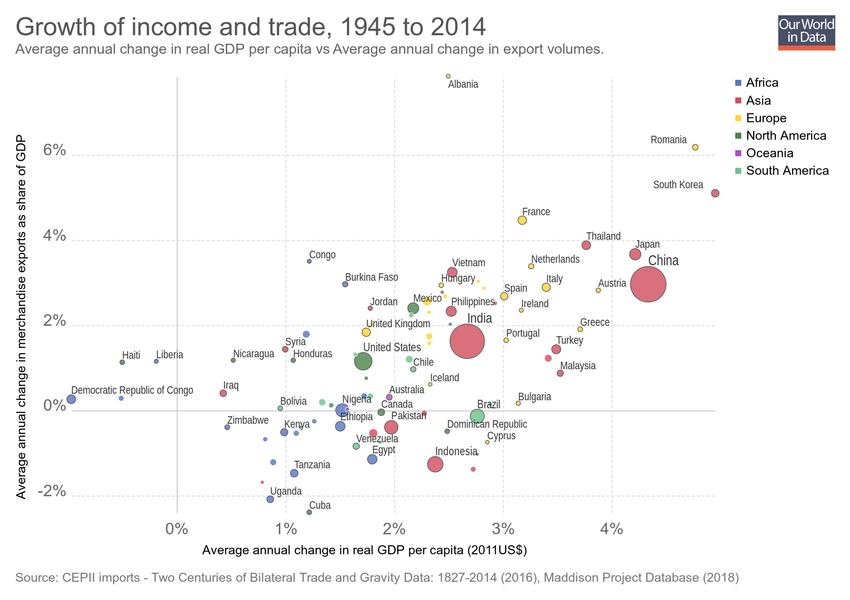
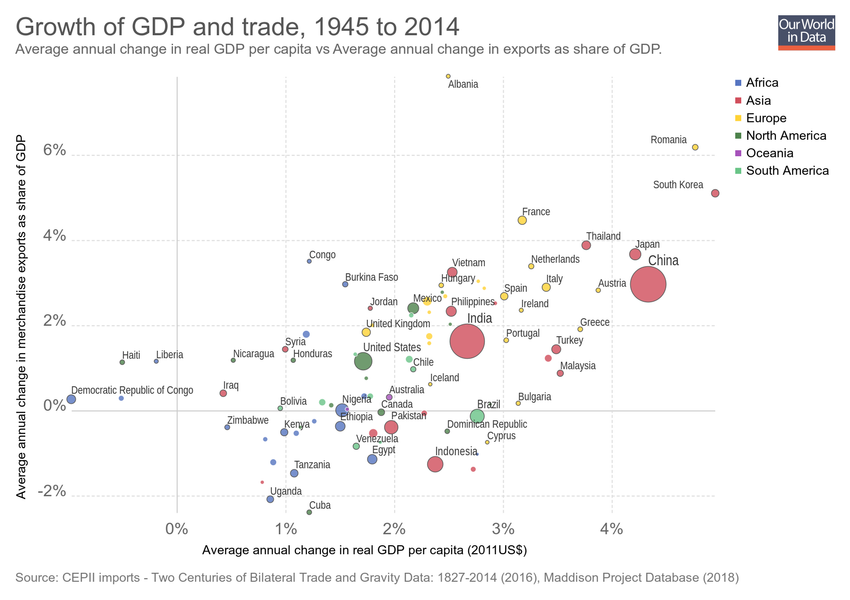
Updating chart growth-of-income-and-trade

Changed region(s): [[0.1529, 0.03, 0.5812, 0.06], [0.6424, 0.06, 0.7953, 0.09]]

diff --git a/grapher/growth-of-income-and-trade.html b/grapher/growth-of-income-and-trade.html
@@ -1,4 +1,4 @@
-<!doctype html><html><head><meta name="viewport" content="width=device-width, initial-scale=1" /><title>Growth of income and trade - Our World in Data</title><meta name="description" content="Average annual change in real GDP per capita vs Average annual change in export volumes." /><link rel="canonical" href="https://ourworldindata.org/grapher/growth-of-income-and-trade" /><meta property="fb:app_id" content="1149943818390250" /><meta property="og:url" content="https://ourworldindata.org/grapher/growth-of-income-and-trade" /><meta property="og:title" content="Growth of income and trade" /><meta property="og:description" content="Average annual change in real GDP per capita vs Average annual change in export volumes." /><meta property="og:image" content="https://ourworldindata.org/grapher/exports/growth-of-income-and-trade.png?v=8" /><meta property="og:image:width" content="850" /><meta property="og:image:height" content="600" /><meta property="og:site_name" content="Our World in Data" /><meta name="twitter:card" content="summary_large_image" /><meta name="twitter:site" content="@OurWorldInData" /><meta name="twitter:creator" content="@OurWorldInData" /><meta name="twitter:title" content="Growth of income and trade" /><meta name="twitter:description" content="Average annual change in real GDP per capita vs Average annual change in export volumes." /><meta name="twitter:image" content="https://ourworldindata.org/grapher/exports/growth-of-income-and-trade.png?v=8" /><style>
+<!doctype html><html><head><meta name="viewport" content="width=device-width, initial-scale=1" /><title>Growth of GDP and trade - Our World in Data</title><meta name="description" content="Average annual change in real GDP per capita vs Average annual change in exports as share of GDP." /><link rel="canonical" href="https://ourworldindata.org/grapher/growth-of-income-and-trade" /><meta property="fb:app_id" content="1149943818390250" /><meta property="og:url" content="https://ourworldindata.org/grapher/growth-of-income-and-trade" /><meta property="og:title" content="Growth of GDP and trade" /><meta property="og:description" content="Average annual change in real GDP per capita vs Average annual change in exports as share of GDP." /><meta property="og:image" content="https://ourworldindata.org/grapher/exports/growth-of-income-and-trade.png?v=9" /><meta property="og:image:width" content="850" /><meta property="og:image:height" content="600" /><meta property="og:site_name" content="Our World in Data" /><meta name="twitter:card" content="summary_large_image" /><meta name="twitter:site" content="@OurWorldInData" /><meta name="twitter:creator" content="@OurWorldInData" /><meta name="twitter:title" content="Growth of GDP and trade" /><meta name="twitter:description" content="Average annual change in real GDP per capita vs Average annual change in exports as share of GDP." /><meta name="twitter:image" content="https://ourworldindata.org/grapher/exports/growth-of-income-and-trade.png?v=9" /><style>
         html, body {
             height: 100%;
             margin: 0;
@@ -20,8 +20,8 @@
         }
     </style><noscript><style>
                     figure { display: none !important; }
-                </style></noscript><link rel="stylesheet" href="https://ourworldindata.org/grapher/assets/commons.bundle.b21f1d8a0d6015523d2f.css" /><link rel="preload" href="/grapher/data/variables/93834+66391+72+123.json?v=8" as="fetch" crossorigin /></head><body class="singleChart"><figure data-grapher-src="/grapher/growth-of-income-and-trade"></figure><noscript id="fallback"><img src="/grapher/exports/growth-of-income-and-trade.svg" /><p>Interactive visualization requires JavaScript</p></noscript><script src="https://cdn.polyfill.io/v2/polyfill.min.js?features=es6,fetch"></script><script src="https://ourworldindata.org/grapher/assets/commons.bundle.b21f1d8a0d6015523d2f.js"></script><script src="https://ourworldindata.org/grapher/assets/charts.bundle.b21f1d8a0d6015523d2f.js"></script><script>
-        var jsonConfig = {"id":2846,"map":{"projection":"World","colorSchemeLabels":[],"colorSchemeValues":[],"customNumericColors":[],"customCategoryColors":{},"customCategoryLabels":{},"customHiddenCategories":{}},"tab":"chart","slug":"growth-of-income-and-trade","type":"ScatterPlot","title":"Growth of income and trade","xAxis":{"scaleType":"log","canChangeScaleType":true},"yAxis":{"min":0,"scaleType":"linear"},"maxTime":2014,"minTime":1945,"version":8,"subtitle":"Average annual change in real GDP per capita vs Average annual change in export volumes.","hasMapTab":false,"stackMode":"relative","dimensions":[{"display":{"name":"Merchandise exports as share of GDP","tolerance":10},"property":"y","variableId":93834},{"display":{"name":"Real GDP per capita (2011US$)","tolerance":10},"property":"x","variableId":66391},{"display":{},"property":"size","variableId":72},{"display":{},"property":"color","variableId":123}],"hasChartTab":true,"isPublished":true,"hideTimeline":true,"selectedData":[],"excludedEntities":[],"compareEndPointsOnly":true,"hideLinesOutsideTolerance":true};
+                </style></noscript><link rel="stylesheet" href="https://ourworldindata.org/grapher/assets/commons.bundle.b21f1d8a0d6015523d2f.css" /><link rel="preload" href="/grapher/data/variables/93834+66391+72+123.json?v=9" as="fetch" crossorigin /></head><body class="singleChart"><figure data-grapher-src="/grapher/growth-of-income-and-trade"></figure><noscript id="fallback"><img src="/grapher/exports/growth-of-income-and-trade.svg" /><p>Interactive visualization requires JavaScript</p></noscript><script src="https://cdn.polyfill.io/v2/polyfill.min.js?features=es6,fetch"></script><script src="https://ourworldindata.org/grapher/assets/commons.bundle.b21f1d8a0d6015523d2f.js"></script><script src="https://ourworldindata.org/grapher/assets/charts.bundle.b21f1d8a0d6015523d2f.js"></script><script>
+        var jsonConfig = {"id":2846,"map":{"projection":"World","colorSchemeLabels":[],"colorSchemeValues":[],"customNumericColors":[],"customCategoryColors":{},"customCategoryLabels":{},"customHiddenCategories":{}},"tab":"chart","slug":"growth-of-income-and-trade","type":"ScatterPlot","title":"Growth of GDP and trade","xAxis":{"scaleType":"log","canChangeScaleType":true},"yAxis":{"min":0,"scaleType":"linear"},"maxTime":2014,"minTime":1945,"version":9,"subtitle":"Average annual change in real GDP per capita vs Average annual change in exports as share of GDP.","hasMapTab":false,"stackMode":"relative","dimensions":[{"display":{"name":"Merchandise exports as share of GDP","tolerance":10},"property":"y","variableId":93834},{"display":{"name":"Real GDP per capita (2011US$)","tolerance":10},"property":"x","variableId":66391},{"display":{},"property":"size","variableId":72},{"display":{},"property":"color","variableId":123}],"hasChartTab":true,"isPublished":true,"hideTimeline":true,"selectedData":[],"excludedEntities":[],"compareEndPointsOnly":true,"hideLinesOutsideTolerance":true};
         var figure = document.getElementsByTagName("figure")[0];
         try {
             window.App = {};
